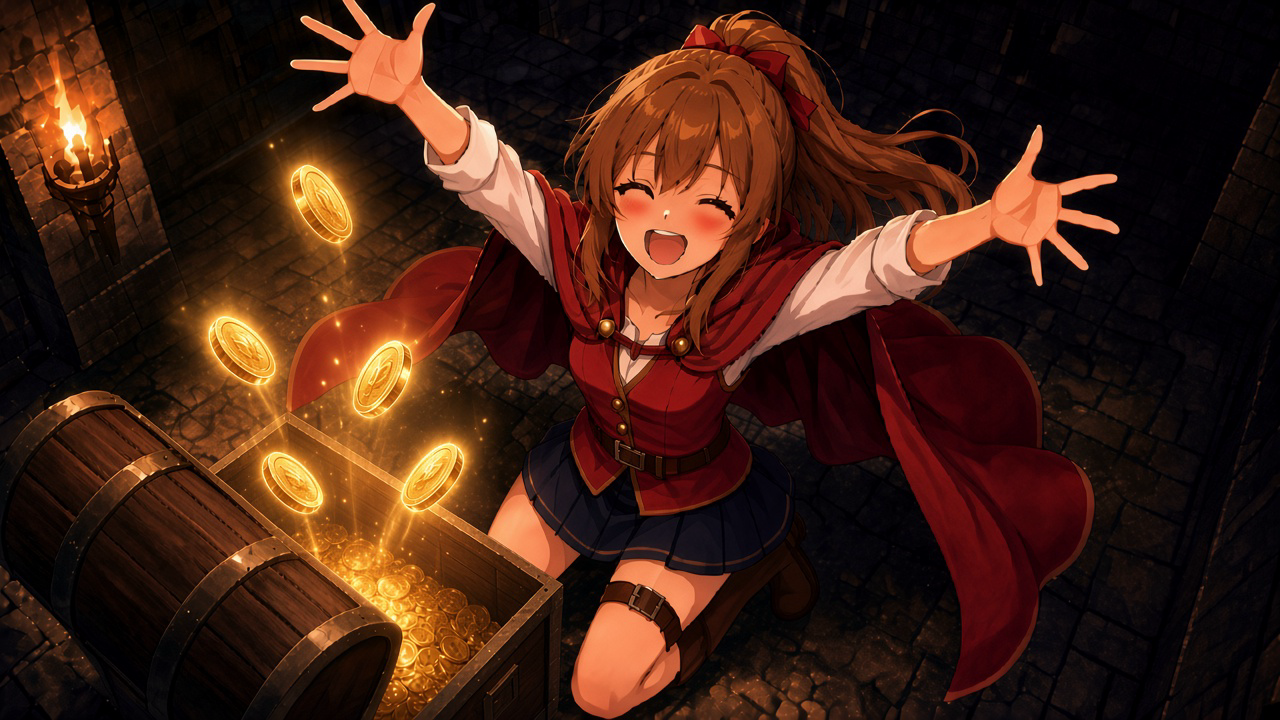
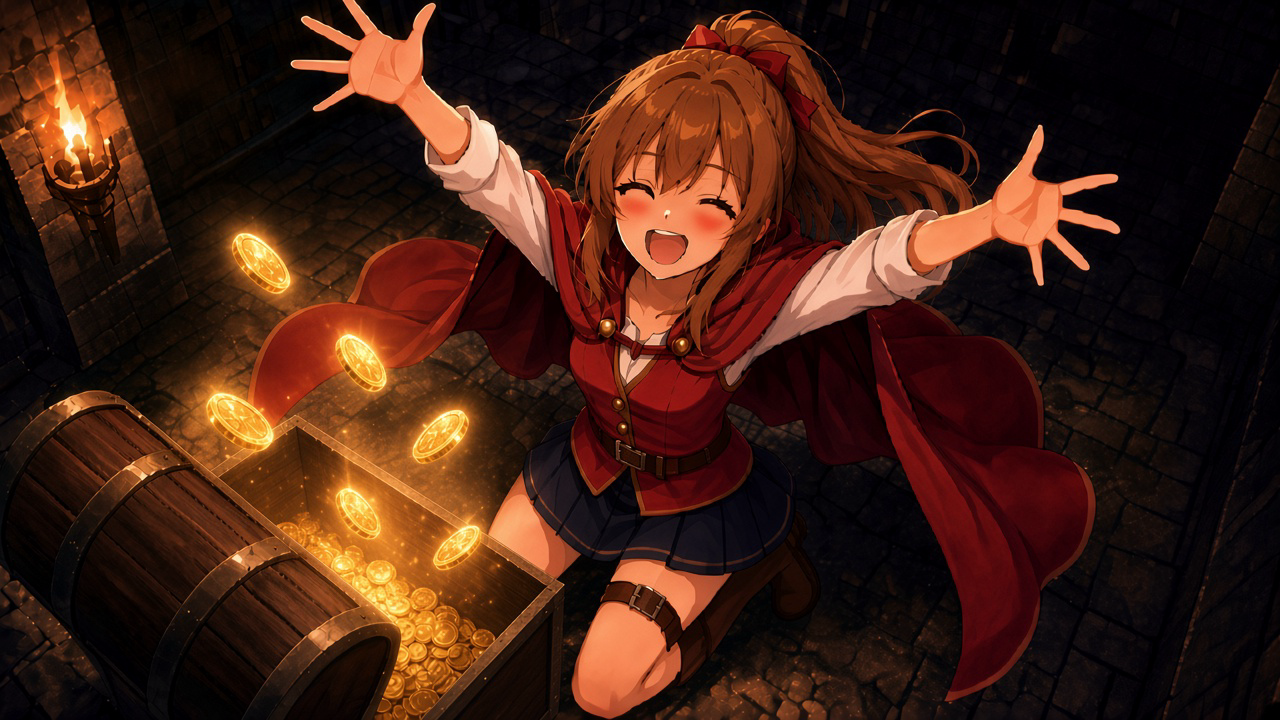
Redraw the victory picture with the same coin prompt.

diff --git a/index.html b/index.html
@@ -6311,7 +6311,7 @@
         battle: "girl-battle.png?v=33",
         battleRatio: "3 / 4",
         defeat: "girl-defeat.png?v=10",
-        victory: "girl-victory.png?v=15",
+        victory: "girl-victory.png?v=16",
         bless: "blessing-goddess-f.jpg?v=1",
       },
     ];
@@ -10010,7 +10010,7 @@
             </div>
             <div class="ref-grid">
               ${sheetFig("girl-defeat.png?v=10", "敗北", "land-ref", "wide-land")}
-              ${sheetFig("girl-victory.png?v=15", "勝利", "land-ref", "wide-land")}
+              ${sheetFig("girl-victory.png?v=16", "勝利", "land-ref", "wide-land")}
             </div>
             <h3>ジョブ選択</h3>
             <div class="ref-grid">
